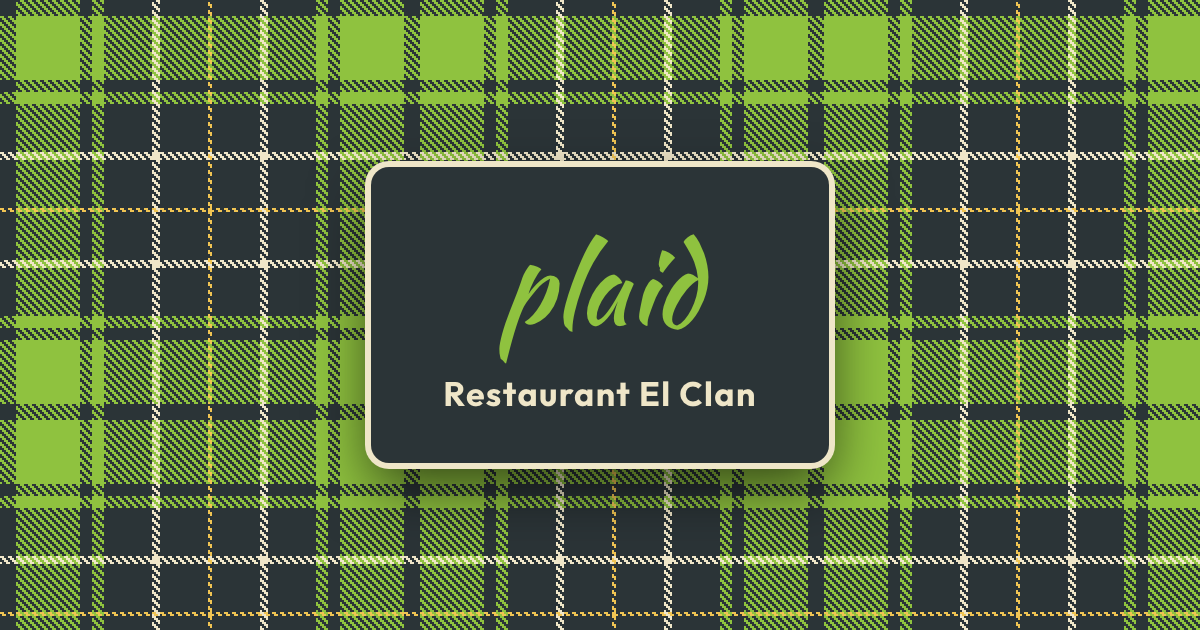
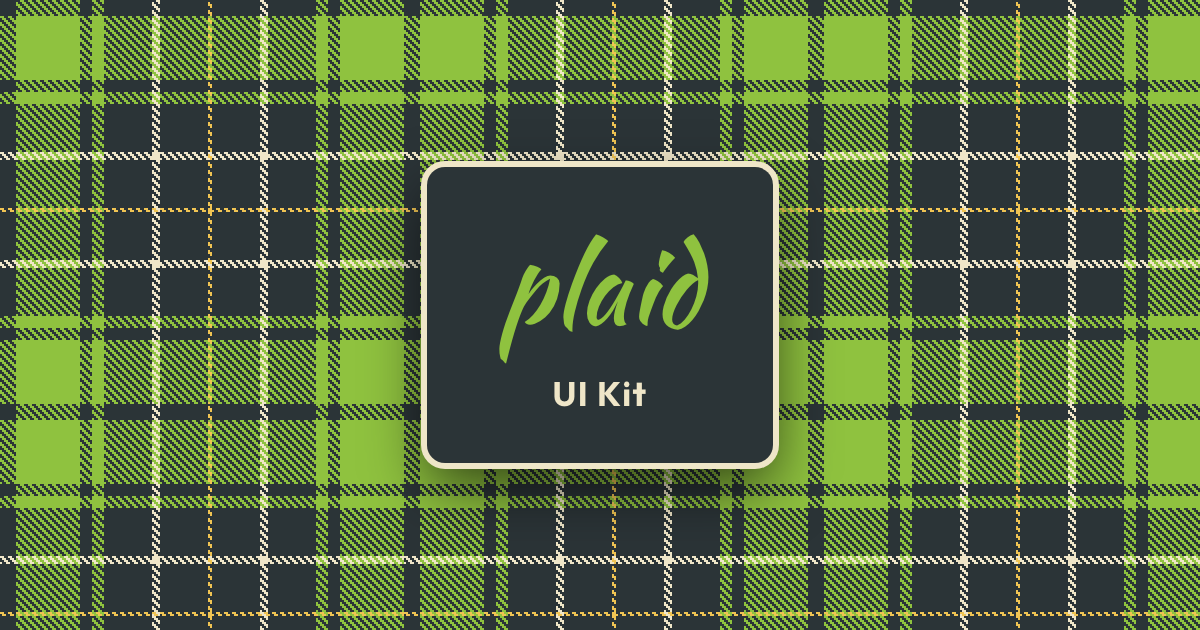
Label the Open Graph image UI Kit instead of Restaurant El Clan

Changed region(s): [[0.2775, 0.2413, 0.74, 0.8143]]

diff --git a/scripts/tartan-assets.ts b/scripts/tartan-assets.ts
@@ -23,7 +23,7 @@ body { margin: 0; width: 1200px; height: 630px; display: grid; place-items: cent
   box-shadow: 0 0 0 6px ${tartanColors.W}, 0 24px 60px #000a; }
 h1 { margin: 0; font: 400 108px Kaushan; color: ${tartanColors.G}; }
 p { margin: 8px 0 0; font: 700 34px Outfit; letter-spacing: .04em; }
-</style><div class="card"><h1>plaid</h1><p>Restaurant El Clan</p></div>`;
+</style><div class="card"><h1>plaid</h1><p>UI Kit</p></div>`;
 
 const browser = await chromium.launch();
 const page = await browser.newPage({ viewport: { width: 1200, height: 630 } });
